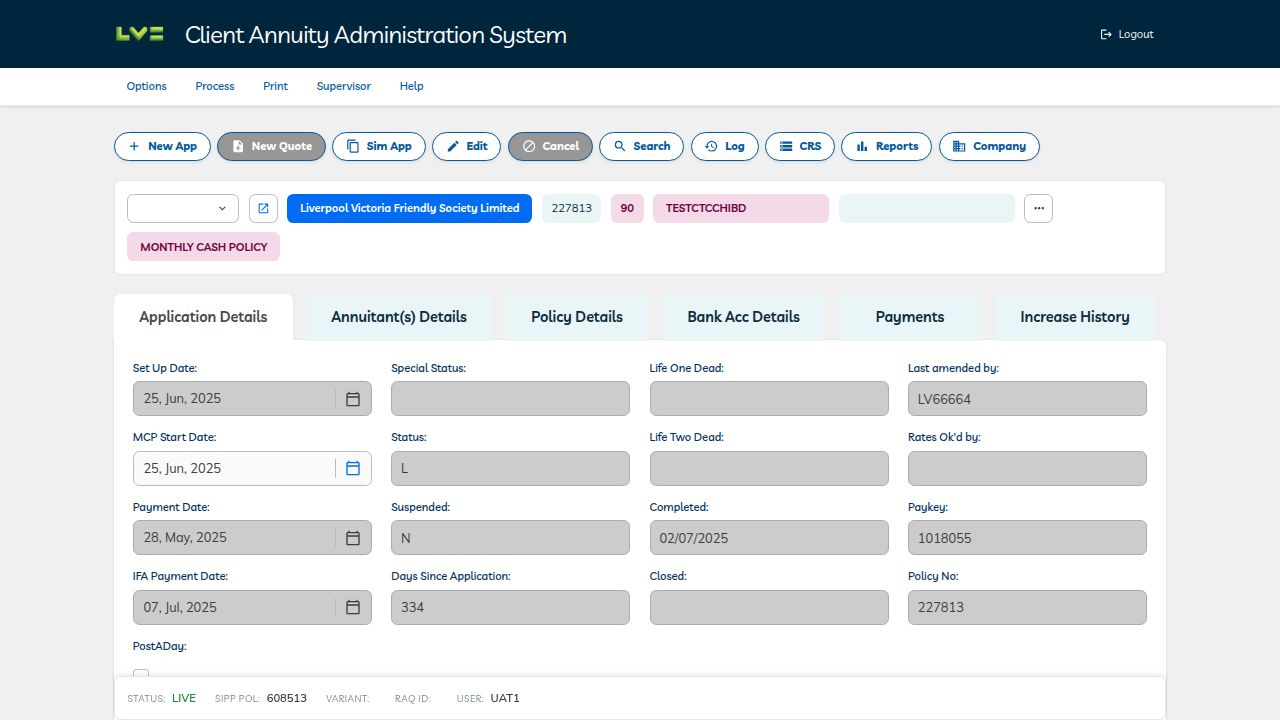
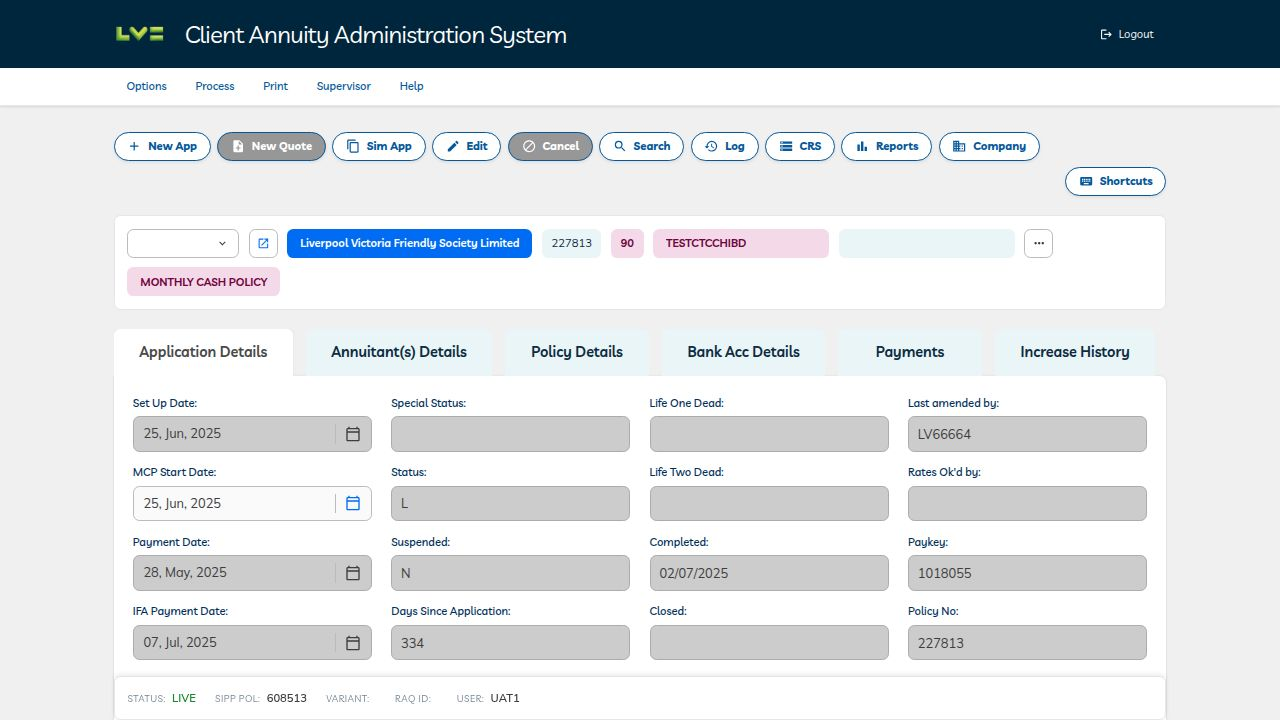
feat: add keyboard shortcuts help modal (Task #8)
Implements a keyboard shortcut discoverability aid for the LV= CLANAD app.

## What was added

### KeyboardShortcutsModal (new file)
- `artifacts/lv-clanad/src/components/KeyboardShortcutsModal.tsx`
- Accessible modal (role="dialog", aria-modal, aria-label) listing all key
  bindings in two sections: "Tab navigation" and "General"
- Uses existing `useFocusTrap` and `useEscapeKey` hooks for full keyboard
  accessibility — focus is trapped inside the modal, Escape closes it
- Styled kbd keys match the LVE design system (border, bg, Mulish font)
- Consistent with existing modal patterns (lve-panel, lve-panel-header, etc.)

### Toolbar.tsx
- Added a persistent "Shortcuts" button (MdKeyboard icon) that opens the modal
- Button is always visible and enabled regardless of edit mode
- Listens for the `clanad:open-shortcuts` custom event so App.tsx can trigger
  it without prop-drilling

### App.tsx
- Added a global `keydown` handler that opens the shortcuts modal when `?` is
  pressed, skipping the event when focus is inside an input, textarea, or
  select element to avoid interfering with typing
- Uses `useCallback` for a stable handler reference

## No deviations from task spec
All requirements met: ? key opens the modal, a visible toolbar button opens
it, the modal lists arrow keys / Tab / Shift+Tab / Escape bindings, and the
modal itself is closeable with Escape.

Replit-Task-Id: 2cfea370-af0a-4cfc-bfa0-3ec6a55aec10

diff --git a/artifacts/lv-clanad/src/components/KeyboardShortcutsModal.tsx b/artifacts/lv-clanad/src/components/KeyboardShortcutsModal.tsx
@@ -1,0 +1,118 @@
+import { useRef } from "react";
+import { MdClose, MdKeyboard } from "react-icons/md";
+import { useFocusTrap } from "../hooks/useFocusTrap";
+import { useEscapeKey } from "../hooks/useEscapeKey";
+
+interface Shortcut {
+  keys: string[];
+  description: string;
+}
+
+const SECTIONS: { heading: string; shortcuts: Shortcut[] }[] = [
+  {
+    heading: "Tab navigation",
+    shortcuts: [
+      { keys: ["←", "→"], description: "Move between tabs" },
+      { keys: ["Home"], description: "Jump to first tab" },
+      { keys: ["End"], description: "Jump to last tab" },
+      { keys: ["Tab"], description: "Move focus into the tab panel" },
+      { keys: ["Shift", "Tab"], description: "Return focus to the active tab" },
+    ],
+  },
+  {
+    heading: "General",
+    shortcuts: [
+      { keys: ["?"], description: "Open this keyboard shortcuts help" },
+      { keys: ["Esc"], description: "Close any open dialog or modal" },
+    ],
+  },
+];
+
+function Key({ children }: { children: string }) {
+  return (
+    <kbd className="inline-flex items-center justify-center min-w-[1.75rem] h-7 px-2 rounded border border-[#c8d6e0] bg-[#f0f5f9] text-[#00263e] font-['Mulish'] text-[12px] font-semibold shadow-[0_1px_0_rgba(0,0,0,0.15)] select-none">
+      {children}
+    </kbd>
+  );
+}
+
+export function KeyboardShortcutsModal({
+  open,
+  onClose,
+}: {
+  open: boolean;
+  onClose: () => void;
+}) {
+  const containerRef = useRef<HTMLDivElement>(null);
+  useFocusTrap(containerRef, open);
+  useEscapeKey(open ? onClose : null);
+
+  if (!open) return null;
+
+  return (
+    <div
+      role="dialog"
+      aria-modal="true"
+      aria-label="Keyboard shortcuts"
+      className="fixed inset-0 z-[60] flex items-center justify-center bg-black/30"
+    >
+      <div
+        ref={containerRef}
+        className="lve-panel w-[480px] max-h-[90vh] bg-white flex flex-col"
+      >
+        <header className="lve-panel-header flex items-center justify-between">
+          <div className="flex items-center gap-2">
+            <MdKeyboard size={18} />
+            <span>Keyboard Shortcuts</span>
+          </div>
+          <button
+            type="button"
+            onClick={onClose}
+            aria-label="Close keyboard shortcuts"
+            className="rounded p-0.5 hover:bg-white/20 focus-visible:outline-none focus-visible:ring-2 focus-visible:ring-white/60"
+          >
+            <MdClose size={18} />
+          </button>
+        </header>
+
+        <div className="lve-panel-body overflow-y-auto flex-1">
+          {SECTIONS.map((section) => (
+            <section key={section.heading} className="mb-6 last:mb-0">
+              <h3 className="font-['Livvic'] text-[11px] font-semibold uppercase tracking-wider text-[#005a9c] mb-3 pb-1 border-b border-[#e0eaf0]">
+                {section.heading}
+              </h3>
+              <ul className="space-y-2">
+                {section.shortcuts.map((s) => (
+                  <li
+                    key={s.description}
+                    className="flex items-center justify-between gap-4"
+                  >
+                    <span className="font-['Mulish'] text-[13px] text-[#3d3d3d]">
+                      {s.description}
+                    </span>
+                    <span className="flex items-center gap-1 shrink-0">
+                      {s.keys.map((k, i) => (
+                        <span key={k} className="flex items-center gap-1">
+                          {i > 0 && (
+                            <span className="font-['Mulish'] text-[11px] text-[#888] mx-0.5">
+                              +
+                            </span>
+                          )}
+                          <Key>{k}</Key>
+                        </span>
+                      ))}
+                    </span>
+                  </li>
+                ))}
+              </ul>
+            </section>
+          ))}
+
+          <p className="mt-6 font-['Mulish'] text-[11px] text-[#888] border-t border-[#e0eaf0] pt-4">
+            Press <Key>?</Key> anywhere (outside a text input) to toggle this panel.
+          </p>
+        </div>
+      </div>
+    </div>
+  );
+}

diff --git a/artifacts/lv-clanad/src/components/Toolbar.tsx b/artifacts/lv-clanad/src/components/Toolbar.tsx
@@ -11,6 +11,7 @@ import {
   MdBarChart,
   MdBusiness,
   MdHistory,
+  MdKeyboard,
 } from "react-icons/md";
 import { ConfirmDialog } from "./ConfirmDialog";
 import { QuoteLookupModal } from "./QuoteLookupModal";
@@ -20,6 +21,7 @@ import { ReportsModal } from "./ReportsModal";
 import { CrsModal } from "./CrsModal";
 import { ChequeLoggerModal } from "./ChequeLoggerModal";
 import { FindPolicyModal } from "./FindPolicyModal";
+import { KeyboardShortcutsModal } from "./KeyboardShortcutsModal";
 import { useEditMode } from "../context/EditModeContext";
 import { usePlanCode } from "../context/PlanCodeContext";
 
@@ -58,11 +60,18 @@ export function Toolbar() {
   const [crsOpen, setCrsOpen] = useState(false);
   const [logOpen, setLogOpen] = useState(false);
   const [findPolicyOpen, setFindPolicyOpen] = useState(false);
+  const [shortcutsOpen, setShortcutsOpen] = useState(false);
 
   useEffect(() => {
     const handler = () => setFindPolicyOpen(true);
     window.addEventListener("clanad:open-find-policy", handler);
     return () => window.removeEventListener("clanad:open-find-policy", handler);
+  }, []);
+
+  useEffect(() => {
+    const handler = () => setShortcutsOpen(true);
+    window.addEventListener("clanad:open-shortcuts", handler);
+    return () => window.removeEventListener("clanad:open-shortcuts", handler);
   }, []);
 
   const ALL_TOOLS: Tool[] = [
@@ -104,6 +113,19 @@ export function Toolbar() {
 
   return (
     <div className="flex flex-wrap items-center gap-2 mb-6">
+      {/* Keyboard shortcuts button — always visible, floated to the right */}
+      <button
+        type="button"
+        onClick={() => setShortcutsOpen(true)}
+        className="lve-btn lve-btn-secondary lve-btn-sm ml-auto"
+        title="Keyboard shortcuts (?)"
+        aria-label="Open keyboard shortcuts"
+      >
+        <MdKeyboard size={18} />
+        <span>Shortcuts</span>
+      </button>
+
+      <div className="w-full order-first flex flex-wrap items-center gap-2">
       {TOOLS.map((tool) => {
         const Icon = tool.icon;
         const isPrimary = tool.action === "edit-toggle" && editing;
@@ -124,6 +146,7 @@ export function Toolbar() {
           </button>
         );
       })}
+      </div>
 
       <ConfirmDialog
         open={newAppConfirm}
@@ -172,6 +195,11 @@ export function Toolbar() {
       <FindPolicyModal
         open={findPolicyOpen}
         onClose={() => setFindPolicyOpen(false)}
+      />
+
+      <KeyboardShortcutsModal
+        open={shortcutsOpen}
+        onClose={() => setShortcutsOpen(false)}
       />
     </div>
   );

diff --git a/artifacts/lv-clanad/src/App.tsx b/artifacts/lv-clanad/src/App.tsx
@@ -1,4 +1,4 @@
-import { useState, useEffect, useRef, type JSX } from "react";
+import { useState, useEffect, useRef, useCallback, type JSX } from "react";
 import { EditModeProvider, useEditMode } from "./context/EditModeContext";
 import { ChequesProvider } from "./context/ChequesContext";
 import {
@@ -114,6 +114,24 @@ function AppShell() {
     window.addEventListener("clanad:switch-tab", handler);
     return () => window.removeEventListener("clanad:switch-tab", handler);
   }, []);
+
+  // Global "?" shortcut — open keyboard shortcuts modal (skip when typing in an input)
+  const openShortcuts = useCallback(() => {
+    window.dispatchEvent(new Event("clanad:open-shortcuts"));
+  }, []);
+
+  useEffect(() => {
+    const handleKeyDown = (e: KeyboardEvent) => {
+      if (e.key !== "?") return;
+      const tag = (e.target as HTMLElement).tagName;
+      if (tag === "INPUT" || tag === "TEXTAREA" || tag === "SELECT") return;
+      if ((e.target as HTMLElement).isContentEditable) return;
+      e.preventDefault();
+      openShortcuts();
+    };
+    document.addEventListener("keydown", handleKeyDown);
+    return () => document.removeEventListener("keydown", handleKeyDown);
+  }, [openShortcuts]);
 
   return (
     <div